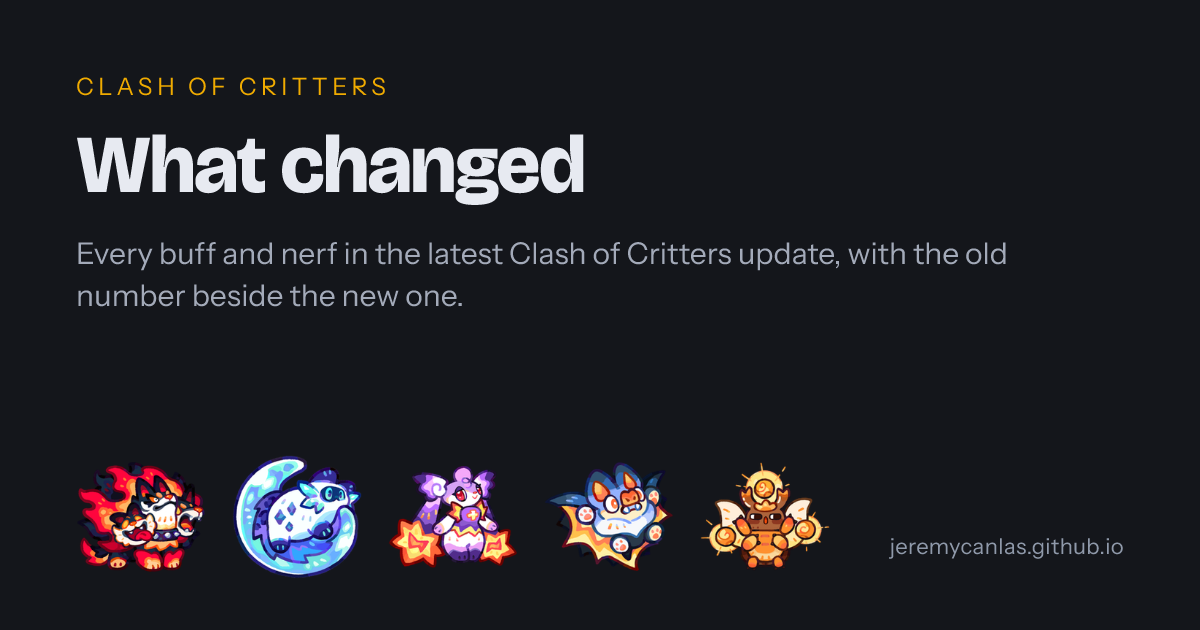
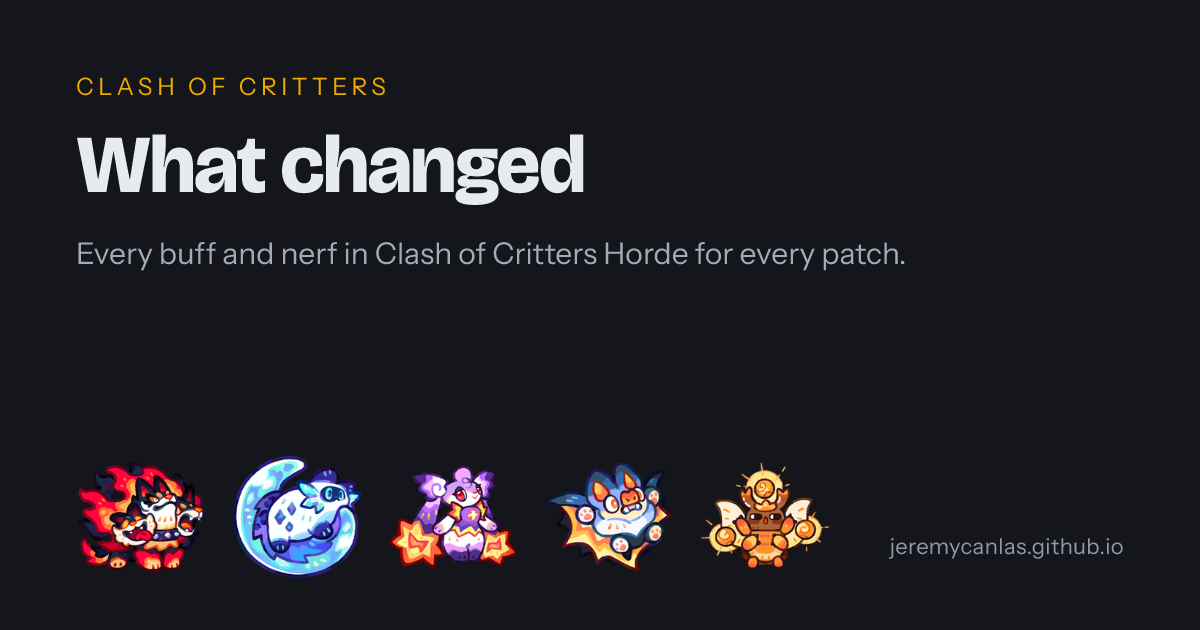
Patch notes card: every patch, not just the latest
Claude-Session: https://claude.ai/code/session_01LEvAnnaT5a4WkG3Ujaz21i

Changed region(s): [[0.3083, 0.3619, 0.8633, 0.4222], [0.0617, 0.4524, 0.4008, 0.4825]]

diff --git a/changes.html b/changes.html
@@ -20,7 +20,7 @@
   <meta property="og:type" content="website">
   <meta property="og:site_name" content="Horde Drafter">
   <meta property="og:title" content="What changed">
-  <meta property="og:description" content="Every buff and nerf in the latest Clash of Critters update, with the old number beside the new one.">
+  <meta property="og:description" content="Every buff and nerf in Clash of Critters Horde for every patch.">
   <meta property="og:url" content="https://jeremycanlas.github.io/clash-of-critters-horde-planner/changes.html">
   <meta property="og:image" content="https://jeremycanlas.github.io/clash-of-critters-horde-planner/assets/img/og/changes.png">
   <meta property="og:image:width" content="1200">
